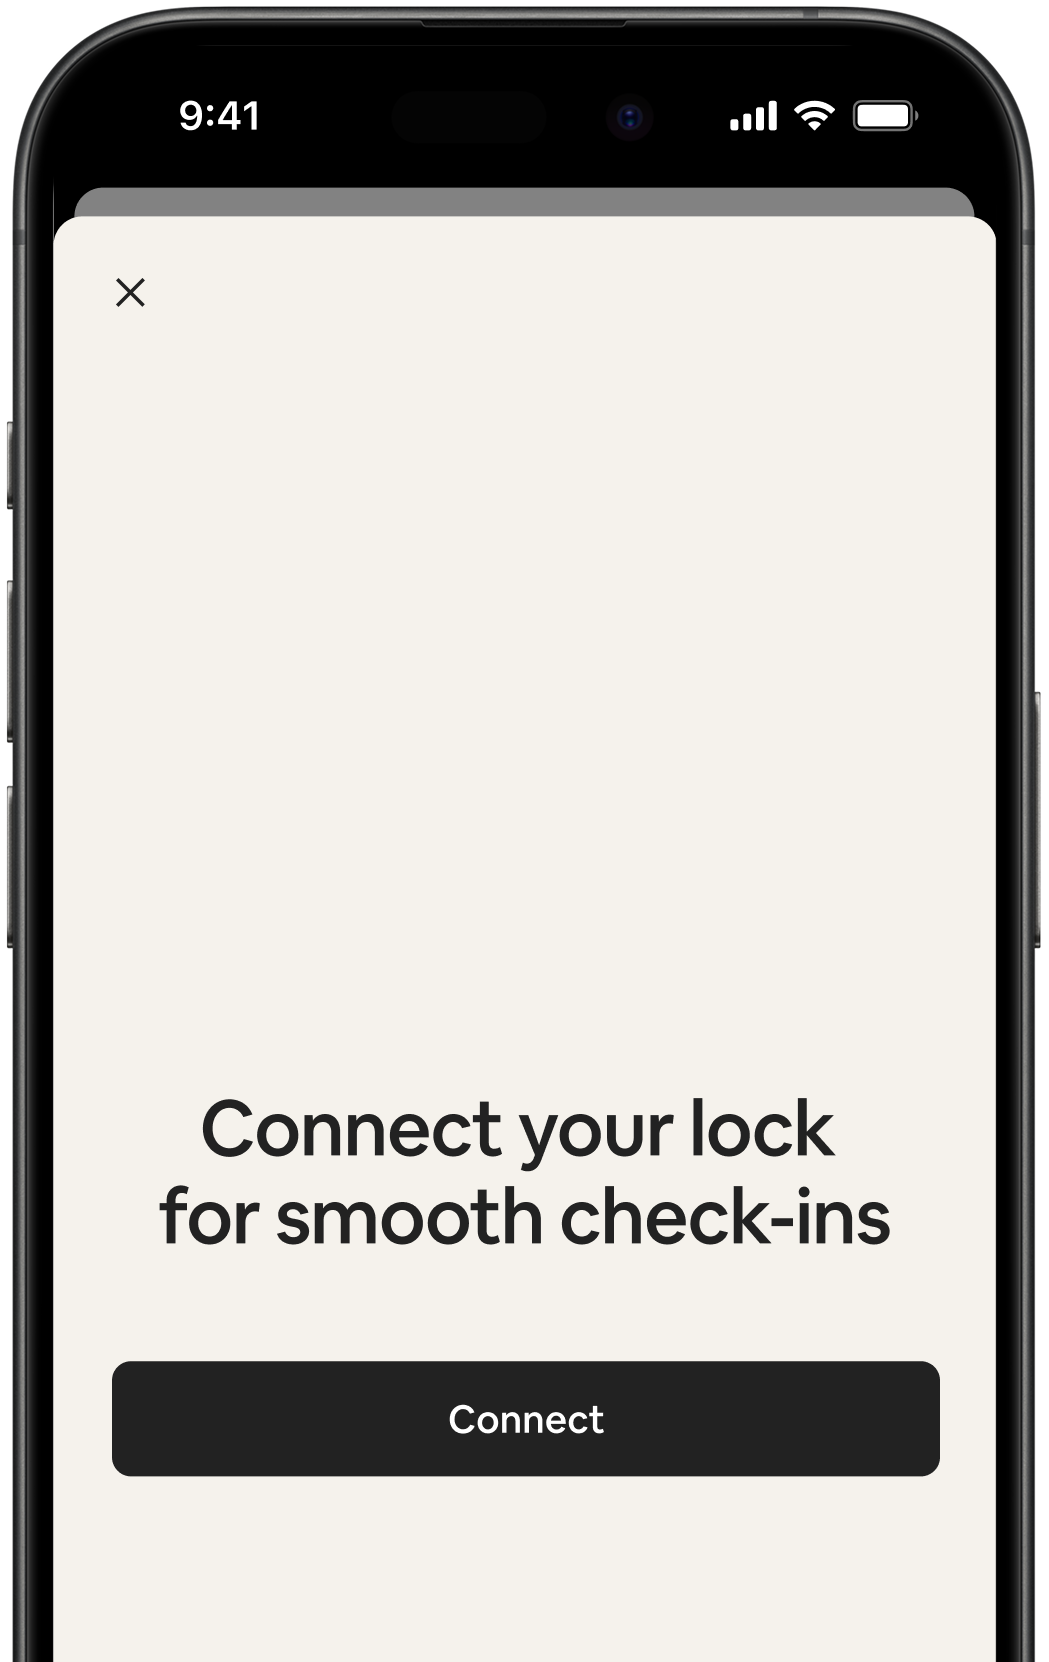
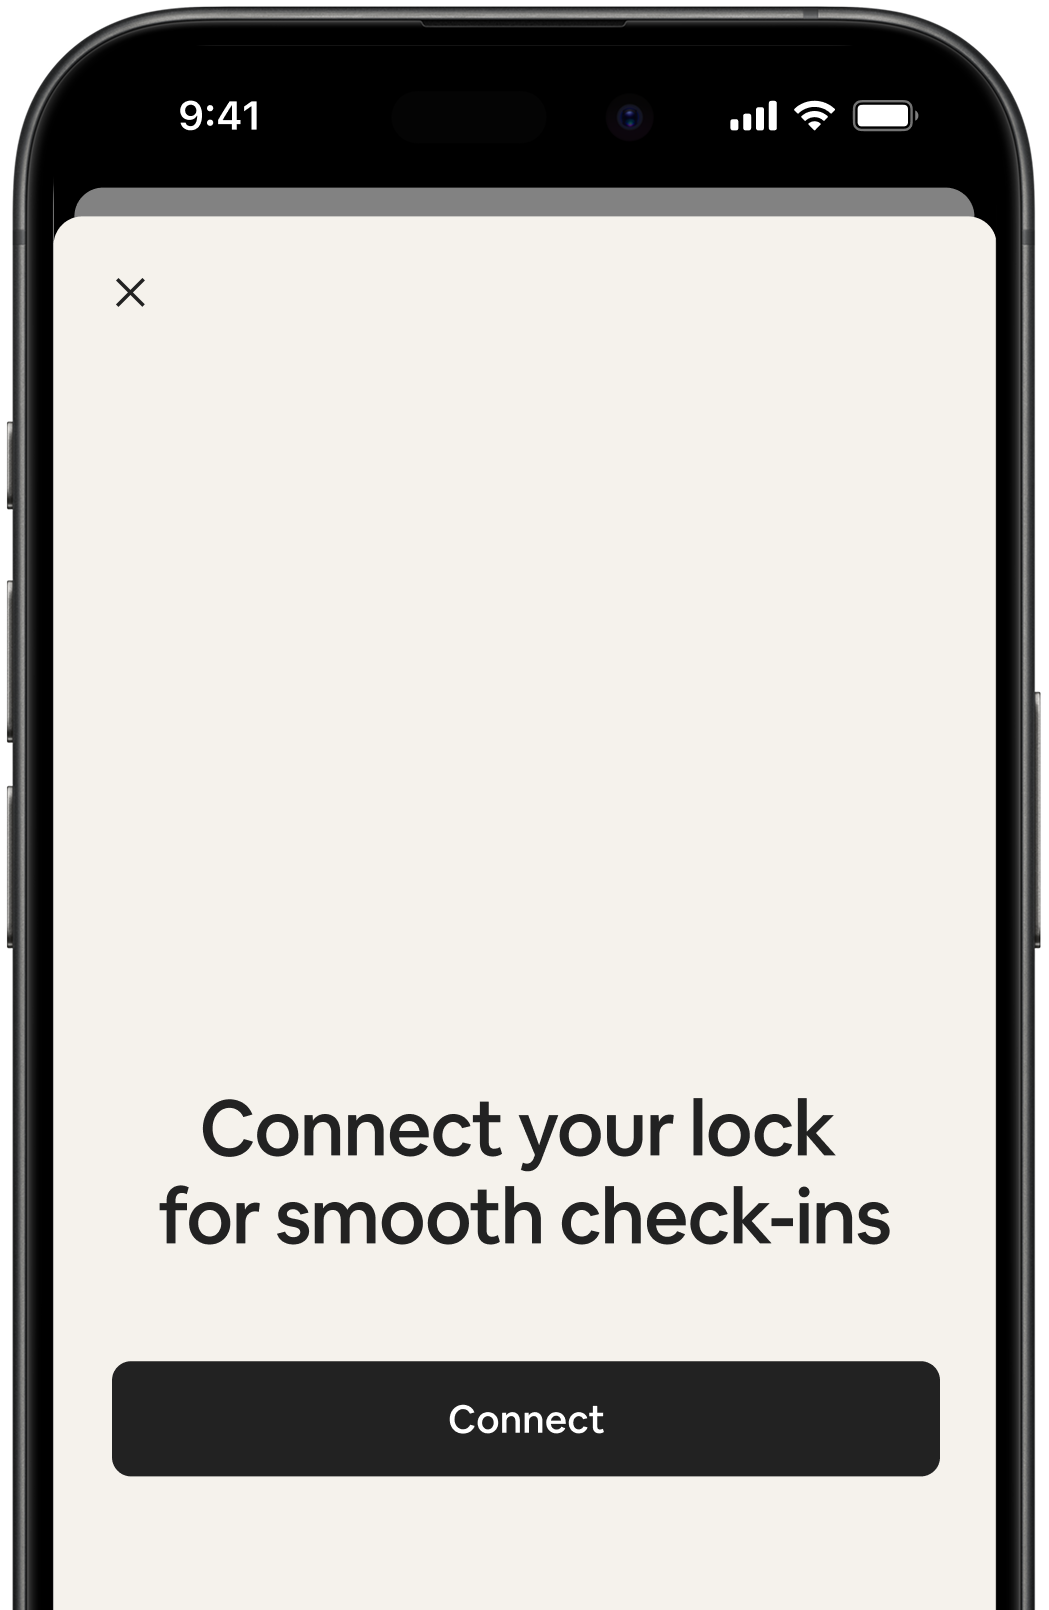
Refresh Smart Lock base asset, reposition video for new proportions
The new export is 52px shorter (1610 vs 1662) with the same content at
the same absolute pixel positions -- just less bottom margin below the
Connect button. Recomputed the phone aspect ratio and the video's
vertical position (42.3% -> 43.7%) so it still lines up with the blank
gap between the nav bar and the heading.

diff --git a/css/style.css b/css/style.css
@@ -226,7 +226,7 @@ footer {
 .cs-lock-phone {
   position: relative;
   width: 62%;
-  aspect-ratio: 1049 / 1662;
+  aspect-ratio: 1049 / 1610;
   filter: drop-shadow(0 20px 40px rgba(0, 0, 0, 0.16));
 }
 
@@ -241,7 +241,7 @@ footer {
 .cs-lock-video {
   position: absolute;
   left: 50%;
-  top: 42.3%;
+  top: 43.7%;
   transform: translate(-50%, -50%);
   width: 42%;
   aspect-ratio: 380 / 540;
